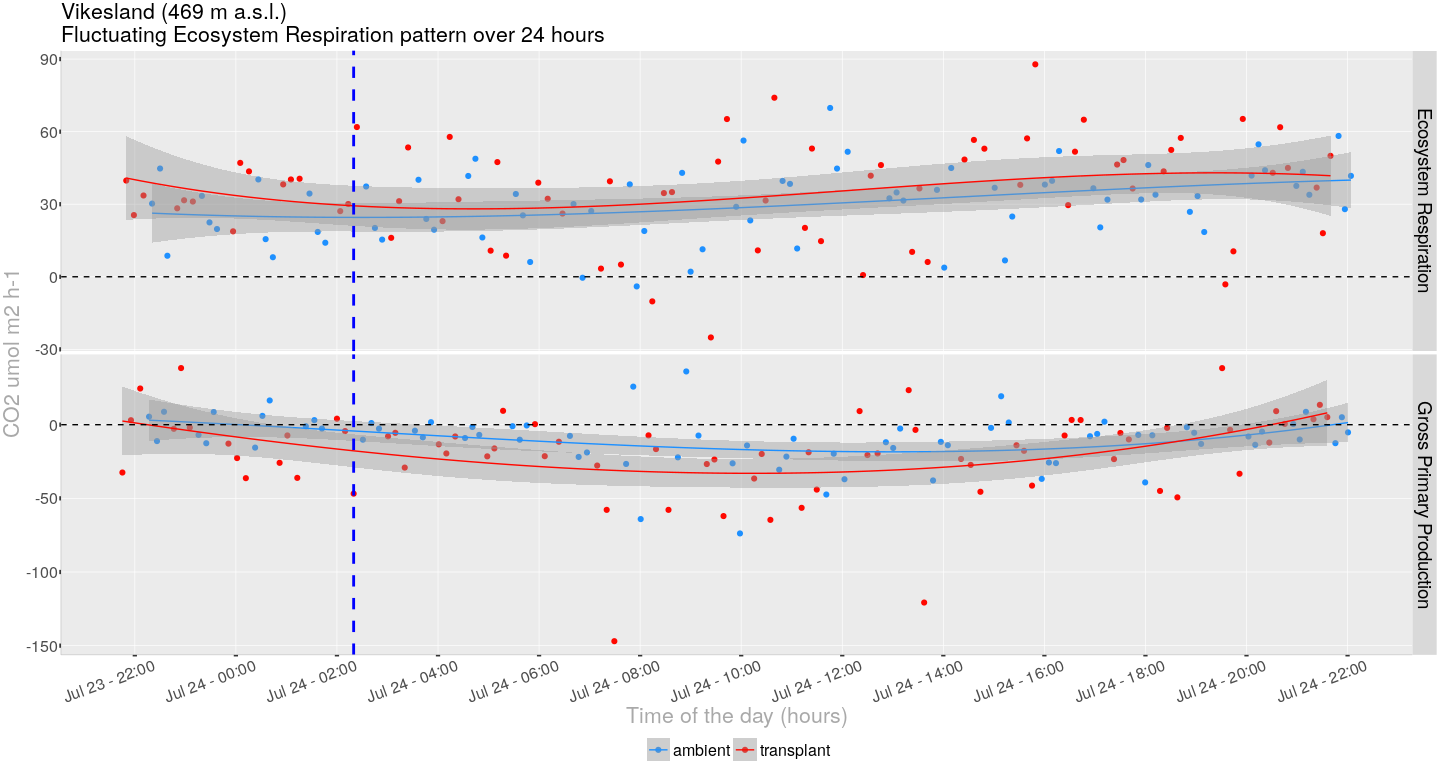
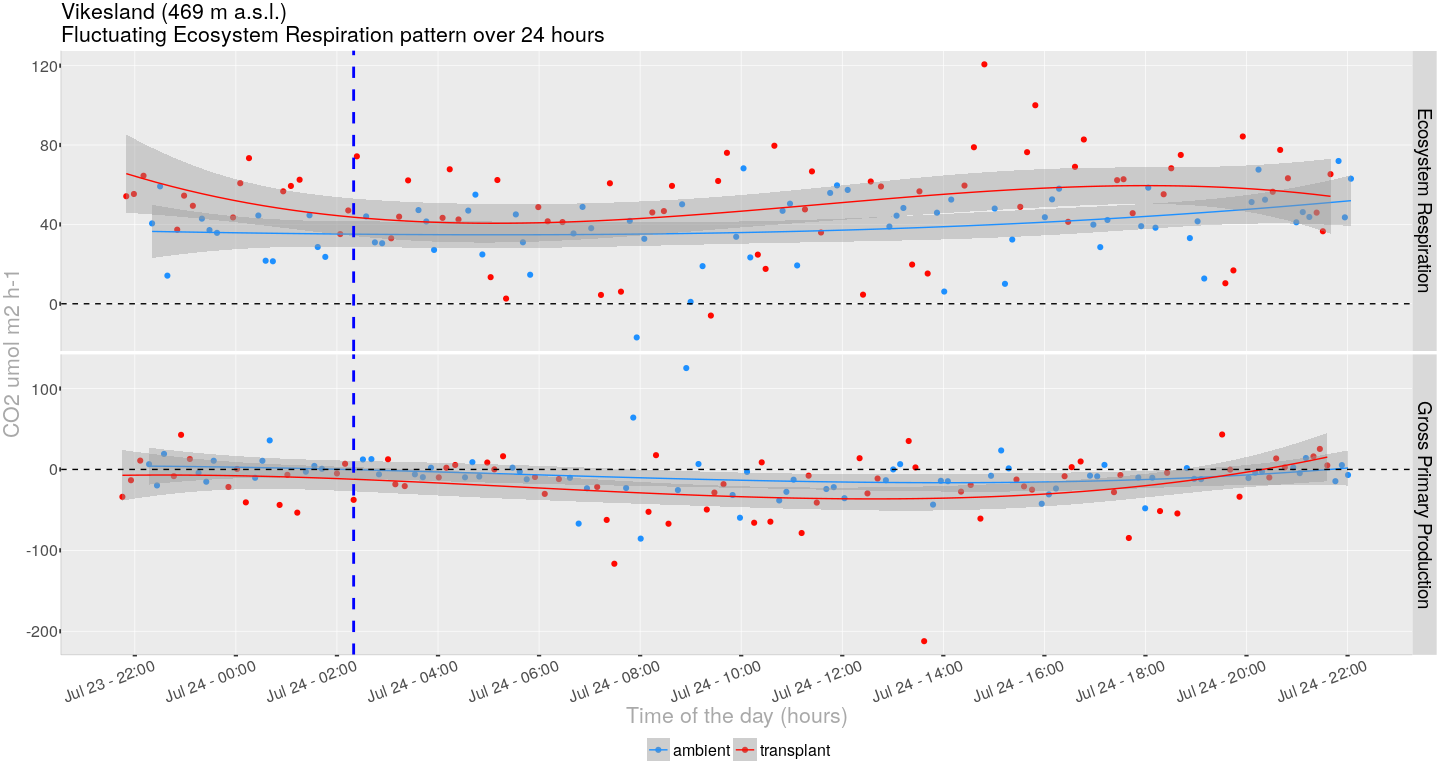
modified data dictionnary to include all fluxes

diff --git a/group_report.md b/group_report.md
@@ -63,12 +63,11 @@ need some more work).
 
 ## Fluxes
 
-| Variable name | Description                                                              | Variable type | Variable range or levels | Unit           | How measured                                                             |
-|:--------------|:-------------------------------------------------------------------------|:--------------|:-------------------------|:---------------|:-------------------------------------------------------------------------|
-| turfID        | The ID of the plot of the carbon flux measurement                        | numeric       | Inf - -Inf               | NA             | defined                                                                  |
-| pairID        | NA                                                                       | numeric       | 1 - 137                  | NA             | NA                                                                       |
-| type          | Types of the data that were collected with (ER) and without tarps (NEE). | numeric       | Inf - -Inf               | NA             | defined                                                                  |
-| flux          | The value of the measured carbon flux                                    | numeric       | -55.047 - 68.556         | mmol/sqm/h     | calculated                                                               |
-| temp_soil     | NA                                                                       | numeric       | 0.825 - 21.608           | NA             | NA                                                                       |
-| PARavg        | The mean of the Photosynthetic Active Radiation (PAR) value              | numeric       | 0.046 - 1818.049         | micromol/s/sqm | Automatically measured by the PAR sensor and recorded to the data logger |
-| datetime      | Date and time of the measured carbon flux                                | numeric       | Inf - -Inf               | NA             | defined                                                                  |
+| Variable name | Description                                                              | Variable type | Variable range or levels                                           | Unit           | How measured                                                             |
+|:--------------|:-------------------------------------------------------------------------|:--------------|:-------------------------------------------------------------------|:---------------|:-------------------------------------------------------------------------|
+| turfID        | The ID of the plot of the carbon flux measurement                        | categorical   | 85 WN1C 162, 105 WN3C 173, 158 WN2C 199, TTC 146, TTC 140, TTC 141 | NA             | defined                                                                  |
+| type          | Types of the data that were collected with (ER) and without tarps (NEE). | categorical   | ER, NEE, GPP                                                       | NA             | defined                                                                  |
+| flux          | The value of the measured carbon flux                                    | numeric       | -212.288 - 126.234                                                 | mmol/sqm/h     | calculated                                                               |
+| temp_soil     | NA                                                                       | numeric       | 12.222 - 17.742                                                    | NA             | NA                                                                       |
+| PARavg        | The mean of the Photosynthetic Active Radiation (PAR) value              | numeric       | -2.819 - 432.008                                                   | micromol/s/sqm | Automatically measured by the PAR sensor and recorded to the data logger |
+| datetime      | Date and time of the measured carbon flux                                | date_time     | 2022-07-23 21:45:15 - 2022-07-24 22:04:00                          | NA             | defined                                                                  |
